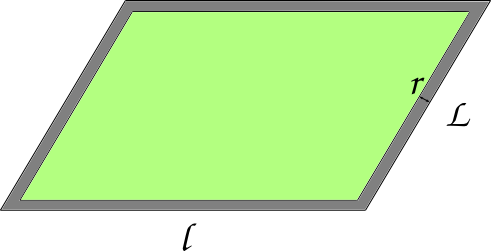
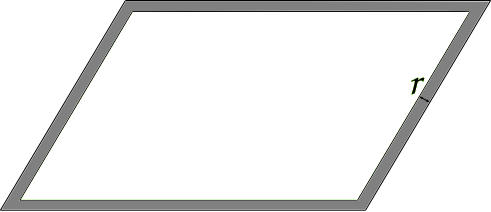
toutatis

diff --git a/Tiling.tex b/Tiling.tex
@@ -102,18 +102,19 @@ representation in the plane in which all edges have length $1$.
 
 We now define formally the needle-throwing process we use to study probabilities. 
 In this definition, and throughout the whole paper, when no further precision 
-is given the words ``uniform'' and ``uniformly'' refer to the Lebesgue measure.
+is given the words ``uniform'' and ``uniformly'' refer to the Lebesgue measure -
+except when we chose in a finite set, where it has its usual meaning.
 \begin{process}
 Consider the following random variables :
 \begin{itemize}
-  \item let $A_1$ (the lowest end of the needle) be a point chosen uniformly 
+  \item let $A$ (the lowest end of the needle) be a point chosen uniformly 
   in $\mathbf{P}$ ;
   \item let $\theta$ be an independent angle chosen uniformly in $[0;\pi[$ ;
-  \item let $A_2$ (the highest end of the needle) be $A_1 + e^{i \theta}$.
+  \item let $A$ (the highest end of the needle) be $A + e^{i \theta}$.
 \end{itemize}
 \end{process}
 
-Note that $A_2$ may be outside of $\mathbf{P}$. In that case, $c(A_2)$ is 
+Note that $B$ may fall outside of $\mathbf{P}$. In that case, $c(B)$ is 
 defined using the periodicity of the colouring.
 Our goal is to evaluate and minimize the probability that both ends have the 
 same color.
@@ -123,16 +124,16 @@ proofs. The idea is to throw a unit distance graph on the
 plane, and then to choose a needle on that graph~:
 \begin{process}
 Given a unit distance graph $(G,V)$, label all the edges with numbers from 
-$1$ to $|E|$. Choose : 
+$1$ to $m$. Choose : 
 \begin{itemize}
 \item one point $A_0$ uniformly on the initial parallelogram $\mathbf{P}$ for 
 the origin of the graph ;
 \item an angle $\theta$ uniformly in $[0;2\pi[$, to rotate the graph ;
-\item an index $i$ in $	[| 1;|E|\ |]$.
+\item an index $i$ in $	[| 1;m|]$.
 \end{itemize}
 Then, rotate the graph by the angle $\theta$, translate it so that the origin 
-falls on  $A_0$, and take the needle corresponding to the $i^{th}$ 
-edge of the obtained graph. 
+falls on  $A_0$, and take the needle $(A',B')$ corresponding to the $i^{th}$ 
+edge of the obtained graph.
 \end{process}
 
 \section{Process equivalence}
@@ -308,7 +309,7 @@ Corollary~\ref{ineg} (but never worse minorants), since new graphs can
 become unit-length. For example, with $3$ colours in dimension $3$, the regular 
 tetrahedron witnesses a better lower bound 
 of $\frac 1 6 >\frac 1 {11}$. More generally, considering the complete graph 
-$K_n$ in dimension $n$, which is unit length, and $n$-colourings, the 
+$K_n$ in dimension $n$, which is unit distance, and $n$-colourings, the 
 probability of getting a monochromatic needle is at least $ \frac{1}{\binom n 2}$.
 
 \subsection{Connections with the Hadwiger-Nelson problem} \label{hn}
@@ -324,9 +325,9 @@ choice :
 In other words, the chromatic number of a graph is the maximum chromatic number 
 of its finite subgraphs.
 
-If there exist a unit length graph (which is finite by definition) that cannot 
+If there exist a unit distance graph (finite by definition) which cannot 
 be coloured with $k$ colours, it 
-follows from our study that the probability $p(c)$ for $c$ a periodic borelian 
+follows from our study that the probability $p(c)$ for $c$ a periodic measurable 
 $k$-colouring is always greater than a certain constant. Taking the 
 contrapositive of this statement and using the De Bruijn-Erdős theorem, we get  
 the interesting proposition :
@@ -343,21 +344,26 @@ on the axiom of choice.
 
 The previous process can be modified to match a somewhat more practical view. 
 In this section, we consider the process of needle throwing in a finite table. 
-Formally, it is defined as follows :
-
+Formally, it is defined as follows~:
 
 \begin{process}
-Denote by $\mathbf{P}$ a parallelogram (representing the table). 
+Denote by $\mathbf{P}$ an open parallelogram, representing the table. 
 \begin{itemize}
-\item Choose a point uniformly in $\mathbf{P}$ for the lower point of the needle
-\item Choose an angle theta uniformly in $[0 ; \pi[$ such that the second end 
-of the needle does not fall out of the table
+\item Choose a point $A$ uniformly in $\mathbf{P}$ as the lower point of the needle ;
+\item Choose an angle $\theta$ in $[0 ; \pi[$ such that the second end 
+$B = A+e^{i \theta}$ does not fall out of the table, uniformly among these 
+acceptable angles.
 \end{itemize}
 \end{process}
 
+Similarly to what was done in the previous sections, we define a second process, 
+consisting in throwing a unit distance graph, and then choosing a edge on this 
+graph. To do so, we need some definitions that will be used to ensure that the 
+edge we will chose falls inside of $\mathbf{P}$.
+
 \begin{definition}
-Let $K(\mathbf{P},r)$ the set obtained by taking $\mathbf{P}$ 
-and keeping only a $r$-wide inner border.
+For $r>0$, let $K(\mathbf{P},r)$ the $r$-wide inner border of $\mathbf{P}$~:
+\[K(\mathbf{P},r) = \{ z \in \mathbf{P} \mid d(z,\mathbf{P}^c) < r\} \] 
 \end{definition}
 
 \begin{figure}[h]
@@ -366,35 +372,26 @@ and keeping only a $r$-wide inner border.
 \caption{\label{tablefinie} The set $K(\mathbf{P},r)$ in grey}
 \end{figure}
 
--------------------------------------------------------------------------------
+\begin{definition}
+If $G$ is a unit distance graph, given with a unit distance representation 
+$f:G\rightarrow \mathbb{R}^2$, let $\partial (G,f)$ be the diameter of the 
+figure $f(G)$ in the plane.
+\end{definition}
 
-from then on we prove unequality only for 2 colours and an equilateral
-triangle. This may be generalised to any graph.
-
--------------------------------------------------------------------------------
-
-Similarly to what was done in the previous section, we define a second process, 
-consisting in throwing a triangle, and then choosing a edge on this triangle.
-This will provide a bound on the probability for two colours.
-
-\begin{process}
-We now define an other needle choosing process, obtained by launching a graph :
+\begin{process}$G$ denotes a unit distance graph, and $r=\partial (G,f)$ for some 
+unit legth representation $f$ of $G$.
 \begin{itemize}
-  \item let $\theta '$ (the orientation of our triangle) be chosen uniformly 
-  in $[0;\pi / 3[$ ;
-  \item let $A'$ (the lowest vertex of the triangle) be a point in $\mathbf{P}$ such 
-  that $A' + e^{i\theta '}$ is also in $P$, chosen uniformly among the points 
-  having this property ;
-  \item let $B' = A' + e^{i \theta '}$ and $C' = A' + e^{i (\theta ' + \pi / 3 ) }$ ;
-  \item let $(A'_1,A'_2)$ (lowest and highest endpoints of the needle) be a 
-  couple of points chosen uniformly between $(A',B')$, $(A',C')$, $(B',C')$.
+  \item let $\theta '$ (the orientation of our graph) be chosen uniformly 
+  in $[0; 2 \pi[$ ;
+  \item let $A_0$ be a point chosen uniformly in $\mathbf{P} \setminus K(\mathbf{P},r)$ ;
+  \item let $i$ be an index chosen uniformly in $[|1;m|]$.
 \end{itemize}
-Finally, let $p'$ be the probability that $A'_1$ and $A'_2$ have the same 
-colour.
+Then, rotate the figure $f(G)$ by the angle $\theta$, translate it so that the origin 
+falls on  $A_0$, and take the needle $(A',B')$ corresponding to the $i^{th}$ 
+edge of the obtained graph. It is clearly inside of $\mathbf{P}$, by definition 
+of $\partial(G,f)$.
 \end{process}
 
-
-The result is the following :
 \begin{lemma}
 Denote by $p$ the probability that both ends have the same colour when throwing 
 the needle on a finite table, then :
